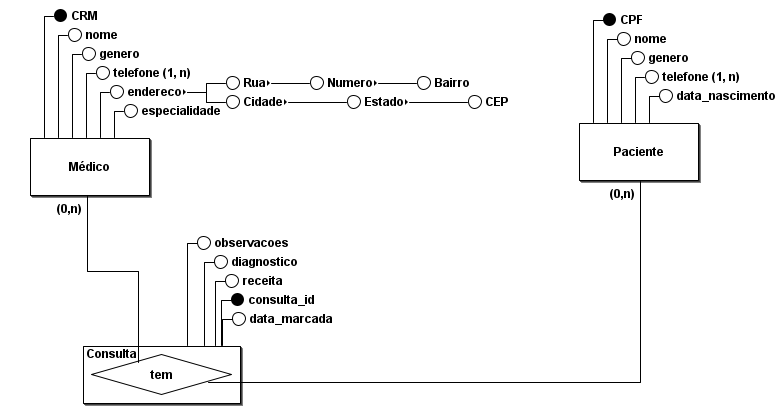
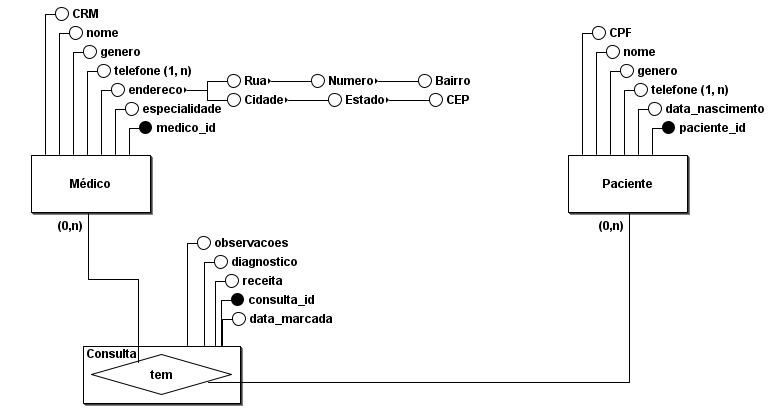
add: alterando a chave primaria das entidades medico e paciente do primeiro modelo

diff --git a/Database/aulas/atividade05/README.md b/Database/aulas/atividade05/README.md
@@ -7,13 +7,15 @@ Este projeto é um sistema de gerenciamento de consultas médicas, que permite r
 ## Entidades e Atributos
 
 1. **Medico**
-    - **CRM (VARCHAR(12), Primary Key)**: Número de registro no Conselho Regional de Medicina.
+    - **medico_id (INT, Primary Key)**: Identificador único do médico.
+    - **CRM (VARCHAR(12))**: Número de registro no Conselho Regional de Medicina.
     - **nome (VARCHAR(45), NOT NULL)**: Nome do médico.
     - **genero (CHAR(1))**: Gênero do médico.
     - **especialidade (VARCHAR(45), NOT NULL)**: Especialidade médica.
 
 2. **Paciente**
-    - **CPF (VARCHAR(11), Primary Key)**: Número de CPF do paciente.
+    - **paciente_id (INT, Primary Key)**: Identificador único do paciente.
+    - **CPF (VARCHAR(11))**: Número de CPF do paciente.
     - **nome (VARCHAR(60), NOT NULL)**: Nome do paciente.
     - **genero (CHAR(1), NOT NULL)**: Gênero do paciente.
     - **data_nascimento (DATE)**: Data de nascimento do paciente.
@@ -24,18 +26,18 @@ Este projeto é um sistema de gerenciamento de consultas médicas, que permite r
     - **diagnostico (VARCHAR(45))**: Diagnóstico médico.
     - **receita (VARCHAR(45))**: Receita médica prescrita.
     - **observacoes (VARCHAR(60))**: Observações relevantes da consulta.
-    - **medico_CRM (VARCHAR(12))**: Chave estrangeira referenciando o CRM do médico na tabela Médico.
-    - **paciente_CPF (VARCHAR(11))**: Chave estrangeira referenciando o CPF do paciente na tabela Paciente.
+    - **medico_id (INT)**: Chave estrangeira referenciando o ID do médico na tabela Médico.
+    - **paciente_id (INT)**: Chave estrangeira referenciando o ID do paciente na tabela Paciente.
 
 4. **Telefone**
     - **telefone_id (INT, Primary Key)**: Identificador único do telefone.
     - **telefone (VARCHAR(15))**: Número de telefone.
-    - **medico_CRM (VARCHAR(12))**: Chave estrangeira referenciando o CRM do médico na tabela Médico.
-    - **paciente_CPF (VARCHAR(11))**: Chave estrangeira referenciando o CPF do paciente na tabela Paciente.
+    - **medico_id (INT)**: Chave estrangeira referenciando o ID do médico na tabela Médico.
+    - **paciente_id (INT)**: Chave estrangeira referenciando o ID do paciente na tabela Paciente.
 
 5. **Endereco**
     - **endereco_id (INT, Primary Key)**: Identificador único do endereço.
-    - **medico_CRM (VARCHAR(12))**: Chave estrangeira referenciando o CRM do médico na tabela Médico.
+    - **medico_id (VARCHAR(12))**: Chave estrangeira referenciando o ID do médico na tabela Médico.
     - **rua (VARCHAR(60))**: Nome da rua.
     - **numero (VARCHAR(10))**: Número do endereço.
     - **bairro (VARCHAR(45))**: Nome do bairro.
